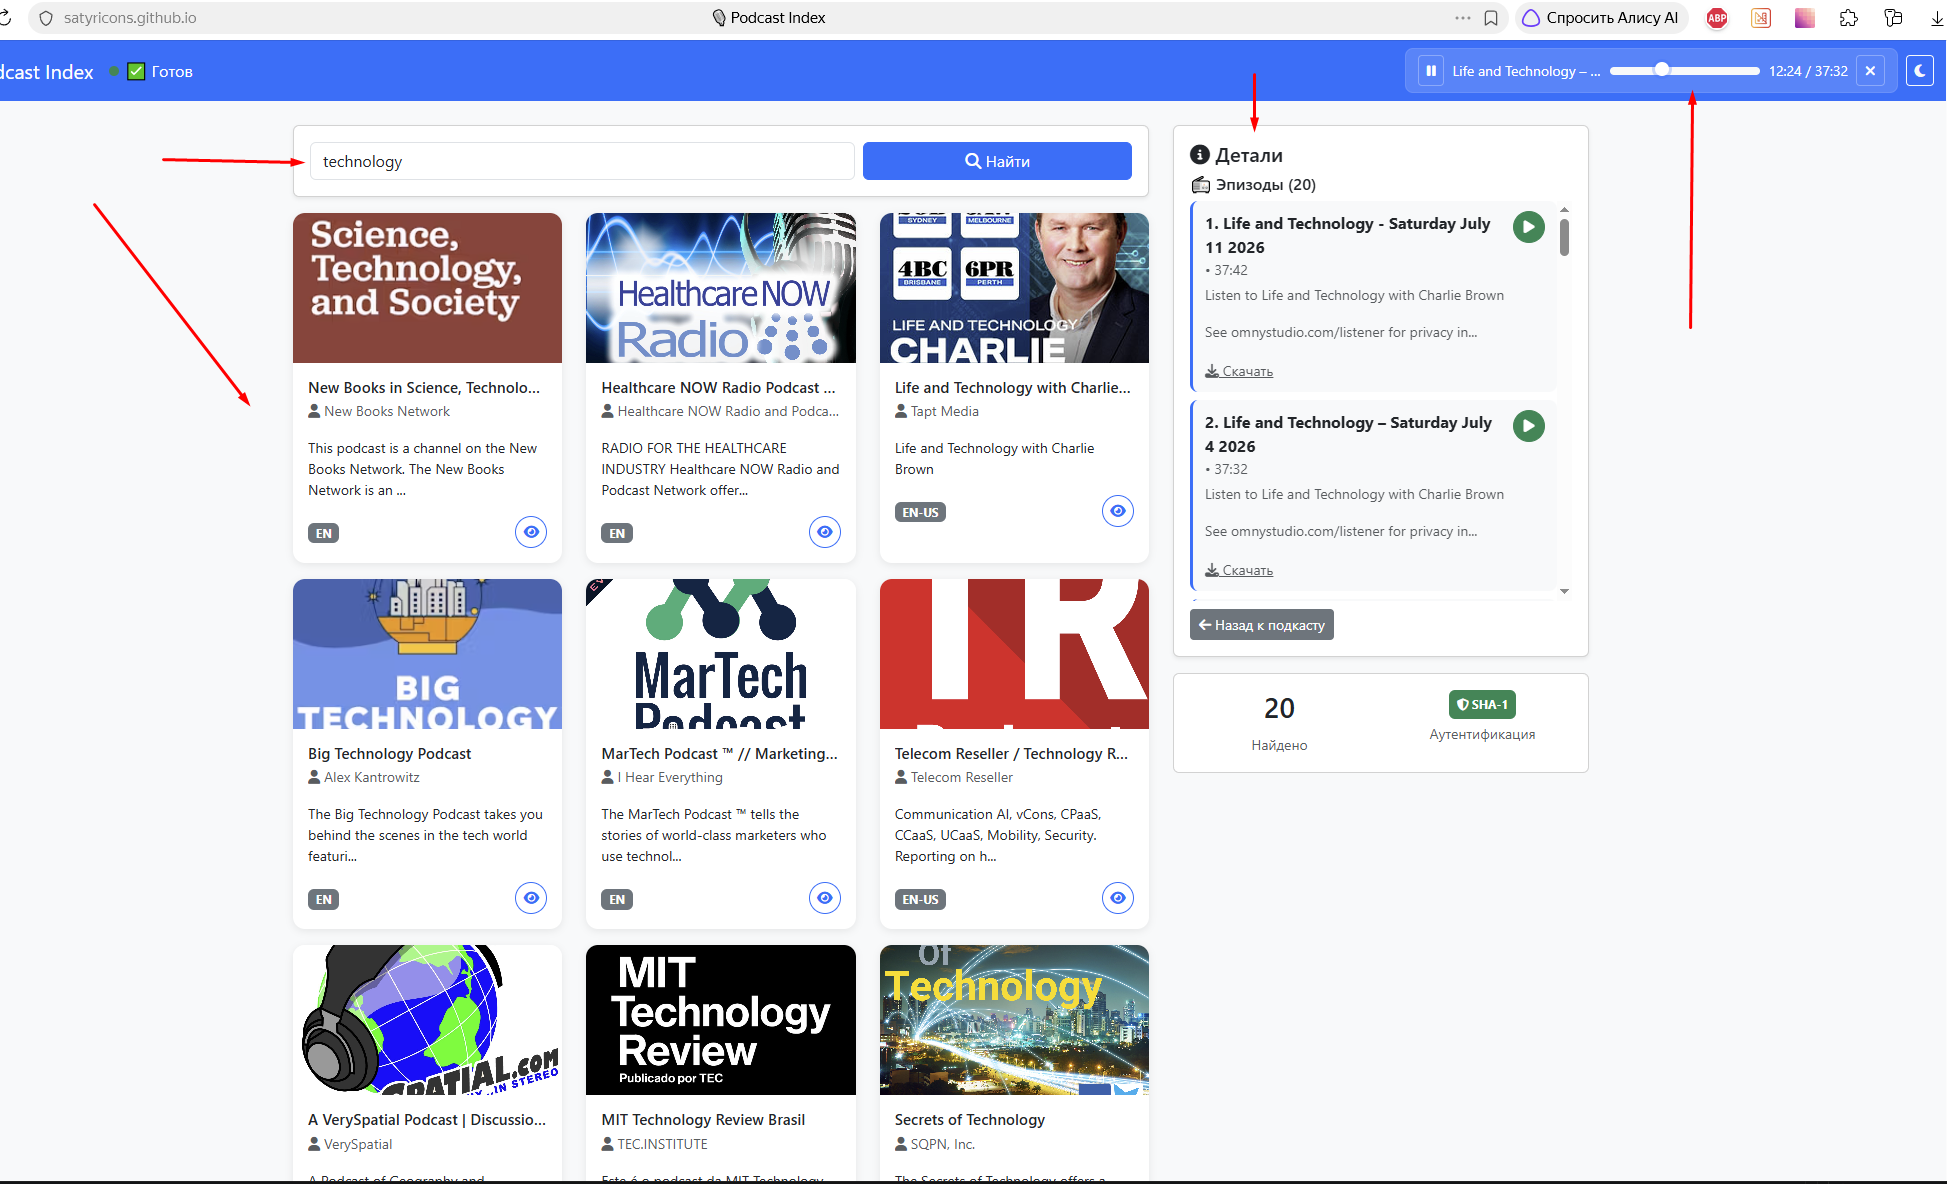
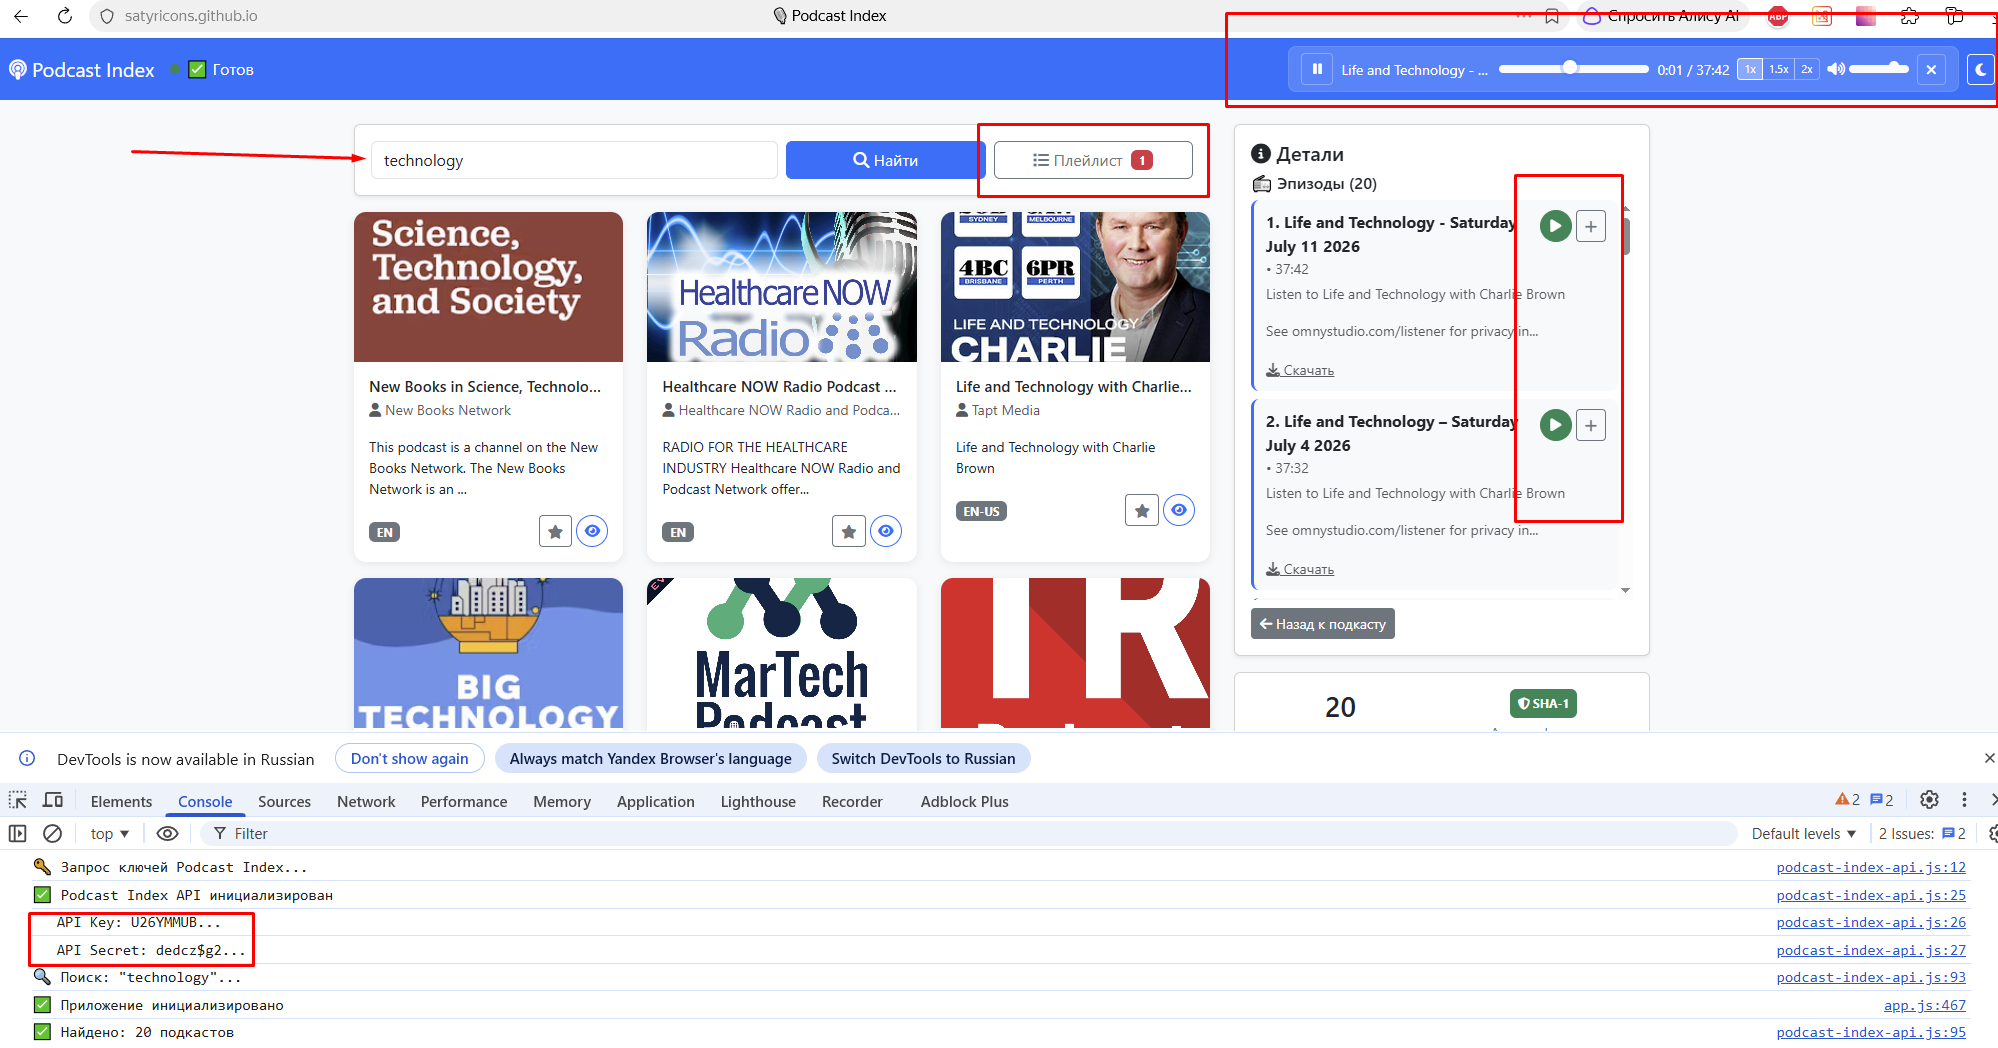
fix (Sun, July 12, 2026 20:09)

diff --git a/README.md b/README.md
@@ -96,7 +96,7 @@ https://github.com/rolling-scopes-school/tasks/blob/master/stage0.5%20Bootcamp/t
 6.	Заголовки	X-Auth-Date, X-Auth-Key, Authorization
 
 
-Итог:
+Функционал:
 
 1. Podcast Index API с SHA-1	✅ Работает
 
@@ -113,3 +113,7 @@ https://github.com/rolling-scopes-school/tasks/blob/master/stage0.5%20Bootcamp/t
 7. Тёмная тема	✅ Работает
 
 8. Адаптивность	✅ Работает
+
+9. LocalStorage ✅ Работает
+
+
